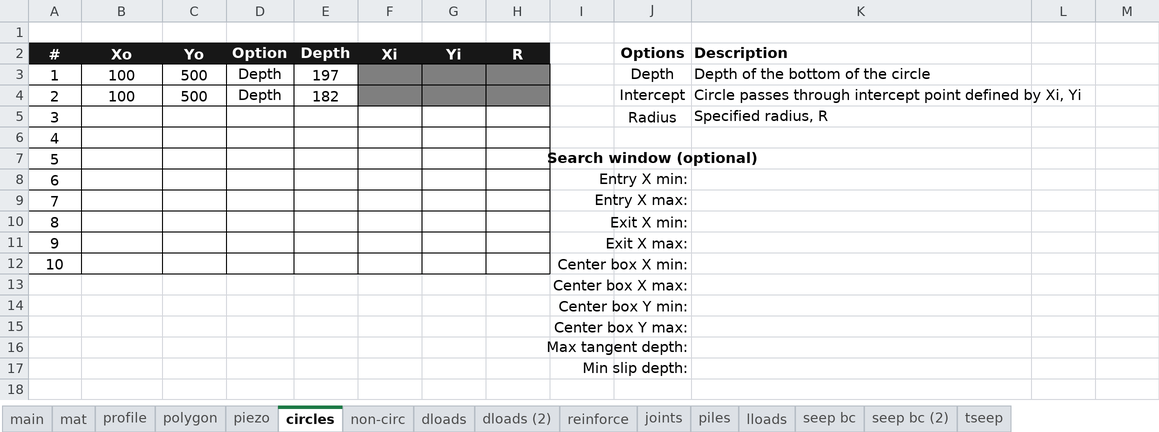
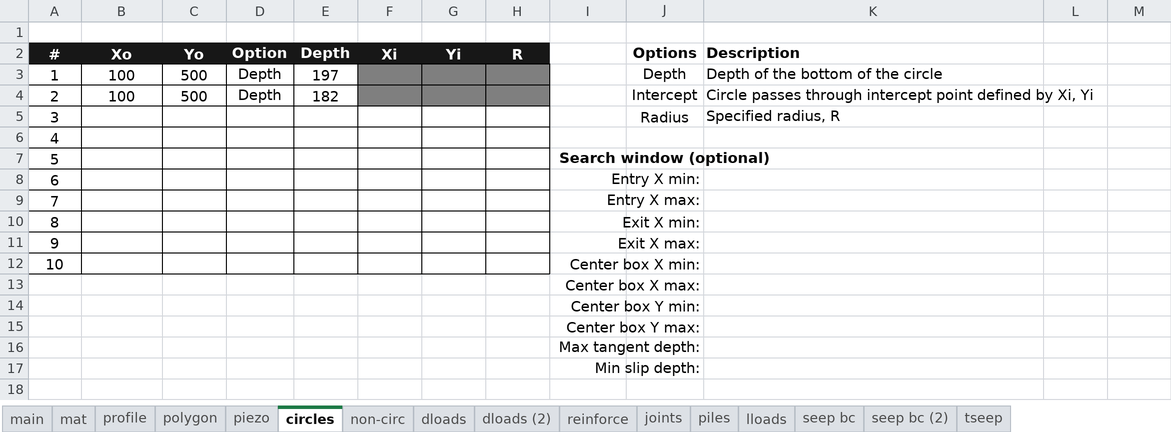
docs: sheet renderer widens the empty columns left of right-aligned labels so they no longer run into a table (circles sheet search-window labels)
Claude-Session: https://claude.ai/code/session_019MWct99sAN4cmZsDr6H3a8

diff --git a/tools/render_sheet.py b/tools/render_sheet.py
@@ -605,6 +605,34 @@ def render_sheet(xlsx_path, sheet, out_path, rows=None, cols=None,
             for c in cols_in:
                 col_px[c] += per
 
+    # ----- right-aligned text spilling leftward ----------------------------- #
+    # Excel lets right-aligned text spill left over empty neighbours. Our font is
+    # wider than Excel's, so a label that fits in Excel can run on into a table to
+    # its left (the circles sheet's search-window labels did). Widen the run of
+    # wholly empty columns just left of the cell -- or the cell's own column when
+    # there is none -- until the text fits inside them.
+    def _col_empty(cc):
+        return all(value_at(rr, cc) in (None, "") for rr in row_list)
+    for r in row_list:
+        for c in base_cols:
+            if (r, c) in merged_covered or (r, c) in merged_anchor:
+                continue
+            val = value_at(r, c)
+            if val in (None, "") or (isinstance(val, (int, float)) and not isinstance(val, bool)):
+                continue
+            cell = ws.cell(row=r, column=c)
+            if _is_wrapped(cell) or align_of(cell, val, False) != "right":
+                continue
+            empties = []
+            for nc in reversed([b for b in base_cols if b < c]):
+                if not _col_empty(nc):
+                    break
+                empties.append(nc)
+            need = _runs_width(_cell_runs(cell, val, theme), fs_px) + 2 * pad
+            have = col_px[c] + sum(col_px[e] for e in empties)
+            if need > have:
+                col_px[empties[0] if empties else c] += int(need - have) + 1
+
     # ----- Excel-style horizontal overflow: complete every legend string ---- #
     # Gather left-aligned, non-wrapped text cells whose right neighbour is empty
     # (so Excel would let the text flow rightward). Record the first non-empty cell
